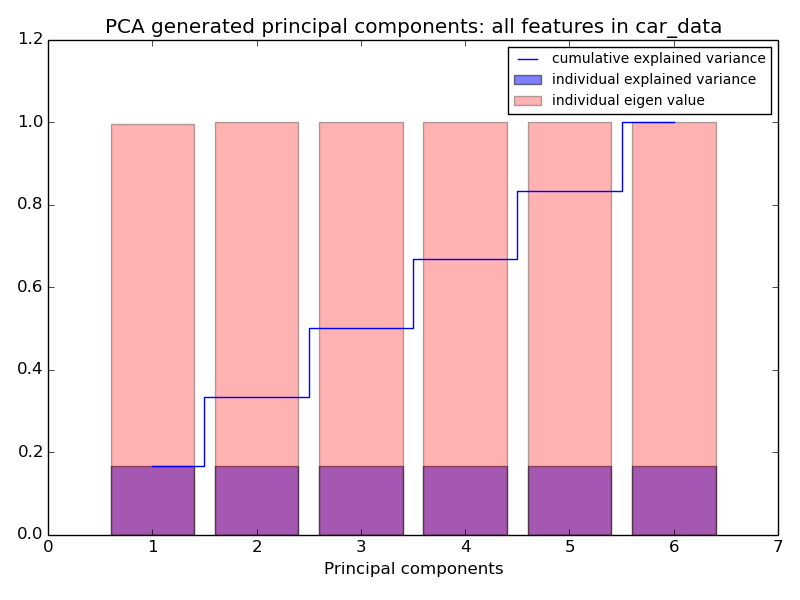
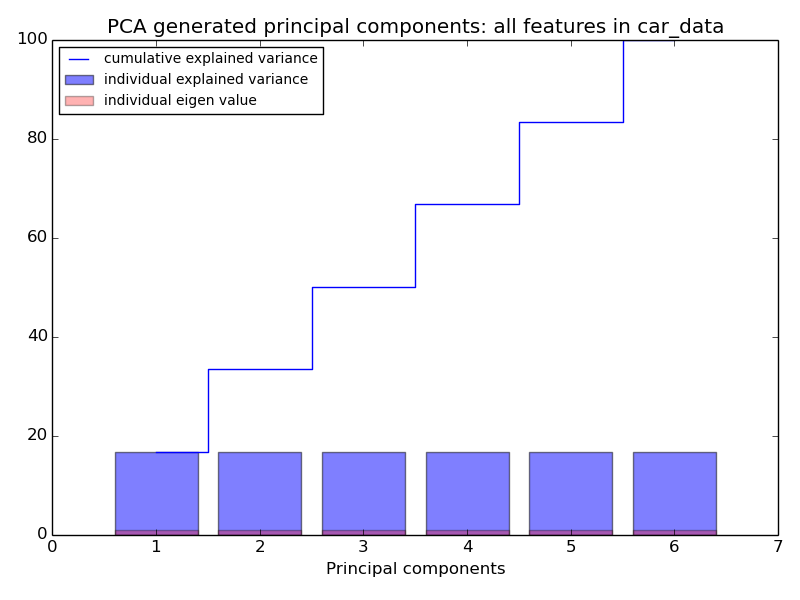
update

diff --git a/proj3/experiments.py b/proj3/experiments.py
@@ -14,8 +14,6 @@ from sklearn.decomposition import PCA
 from sklearn.decomposition import FastICA
 from sklearn.discriminant_analysis import LinearDiscriminantAnalysis
 from sklearn.mixture import GaussianMixture
-from sklearn.feature_selection import SelectKBest
-from sklearn.feature_selection import mutual_info_classif
 
 def plot_curves(title, df, xlabel, ylabel, styles, filename, flag=False, dotline=0, line_label='', show100=False):
     colors = plt.cm.rainbow(np.linspace(1, 0, len(Y)))
@@ -55,9 +53,9 @@ def clustering(dataset, x, y, ks):
         ss_km.append(metrics.silhouette_score(X, kmeans.labels_))
         ars_km.append(metrics.adjusted_rand_score(y, kmeans.labels_))
         vms_km.append(metrics.v_measure_score(y, kmeans.labels_))
-        em = GaussianMixture(n_components=k)#, random_state=20, n_init=20)
-        
+
         x = X
+        em = GaussianMixture(n_components=k)#, random_state=20, n_init=20)        
         em.fit(x)
         pred_labels_em = em.predict(x)
         ss_em.append(metrics.silhouette_score(x, pred_labels_em))
@@ -137,13 +135,15 @@ def dimension_reduction(dataset, x, y, ns):
     plt.legend(loc='best', prop=fontP)
     plt.savefig(filename)
 
-    eig_vals = np.linalg.eigvals(pca.get_covariance())
-    var_exp = pca.explained_variance_ratio_
+    eig_vals = sorted(np.linalg.eigvals(pca.get_covariance()), reverse=True)
+    tot = sum(eig_vals)
+    #var_exp = pca.explained_variance_ratio_
+    var_exp = [(i / tot)*100 for i in eig_vals]
+    cum_var_exp = np.cumsum(var_exp)
     print('Eigenvalues:')
     print('{}'.format(eig_vals))
-#    print('Explained variance (%):')
-#    print('{}'.format(var_exp))
-    cum_var_exp = np.cumsum(var_exp)
+    print('Explained variance (%):')
+    print('{}'.format(var_exp))
     plt.figure()
     plt.title('PCA generated principal components: all features in '+dataset)
     plt.bar(np.array(range(len(var_exp)))+1, var_exp, color='b', alpha=0.5, align='center',
